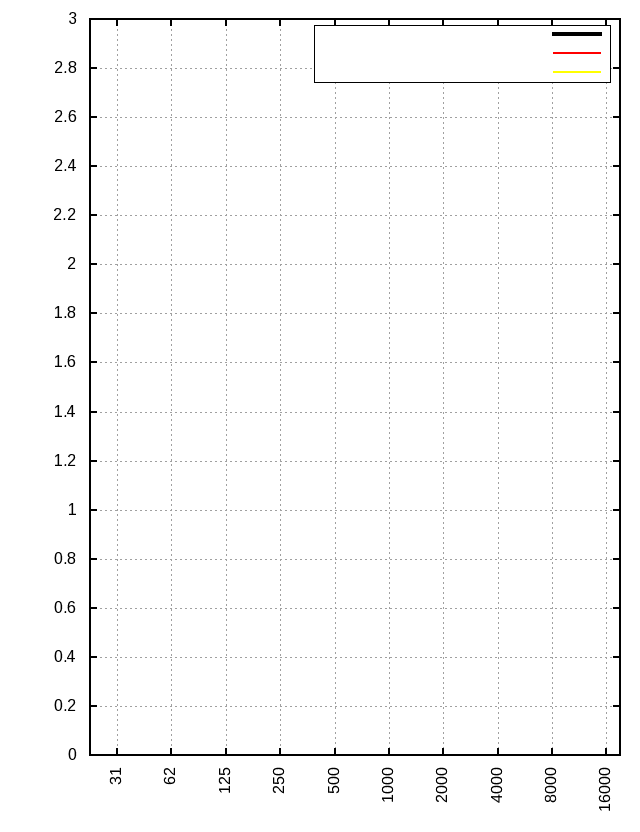
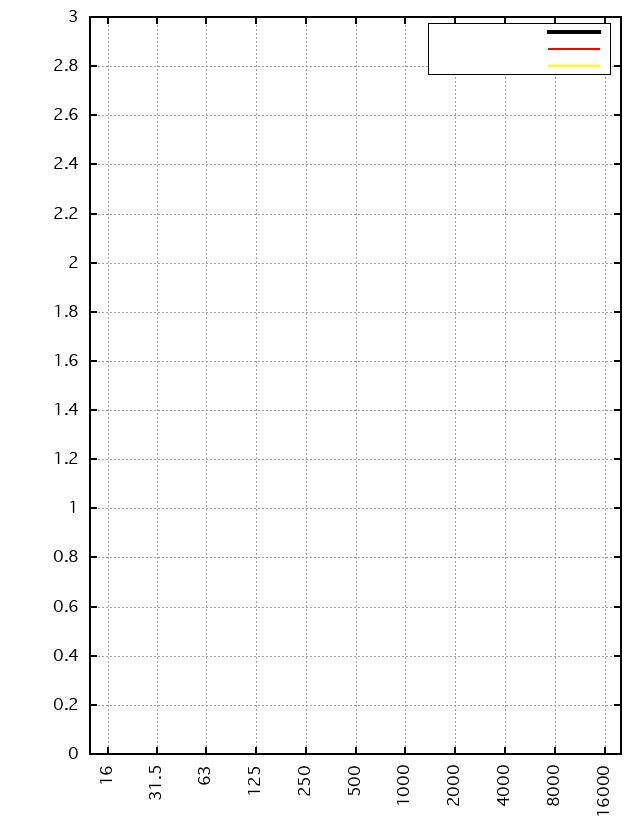
use standard third-octave frequencies:wq

diff --git a/ClapIR/ClapMeasurement.m b/ClapIR/ClapMeasurement.m
@@ -34,24 +34,18 @@ float* specFreqArray = nil;
     free( directSoundSpectrum );
 }
 
+// standard 1/3 octave bands
+// see: https://www.engineeringtoolbox.com/octave-bands-frequency-limits-d_1602.html
+static const float freqs[33] = {12.5, 16, 20, 25, 31.5, 40, 50, 63, 80, 100, 125, 160, 200, 250,
+    315, 400, 500, 630, 800, 1000, 1250, 1600, 2000, 2500, 3150, 4000, 5000, 6300, 8000, 10000,
+    12500, 16000, 20000};
+
 +(int)numFreqs{
-    return 40;
+    return 33;
 }
 
-+(float*)specFrequencies{
-    if( specFreqArray == nil ){
-        // init array of spectrum frequencies the first time they are required
-        specFreqArray = malloc( sizeof(float) * ClapMeasurement.numFreqs );
-                         
-        double sqrt2 = sqrt(2);
-        double sqrtsqrt2 = sqrt(sqrt2);
-        double x = 22.09708691207964; // 1000/(sqrt(2)^11)
-        for( int i=0; i<ClapMeasurement.numFreqs; i++ ){
-            specFreqArray[i] = x;
-            x *= sqrtsqrt2;
-        }
-    }
-    return specFreqArray;
++(const float*)specFrequencies{
+    return freqs;
 }
 
 -(NSString*)description{

diff --git a/ClapIR/ClapMeasurement.h b/ClapIR/ClapMeasurement.h
@@ -21,7 +21,7 @@
 /** number of frequencies in spectra */
 +(int)numFreqs;
 /** @return array of length [ClapMeasurement numFreqs] specifying the frequencies in spectra, reported in Hertz */
-+(float*)specFrequencies;
++(const float*)specFrequencies;
 
 +(ClapMeasurement*)averageOfMeasurementsInArray:(NSArray*)measurements;
 
